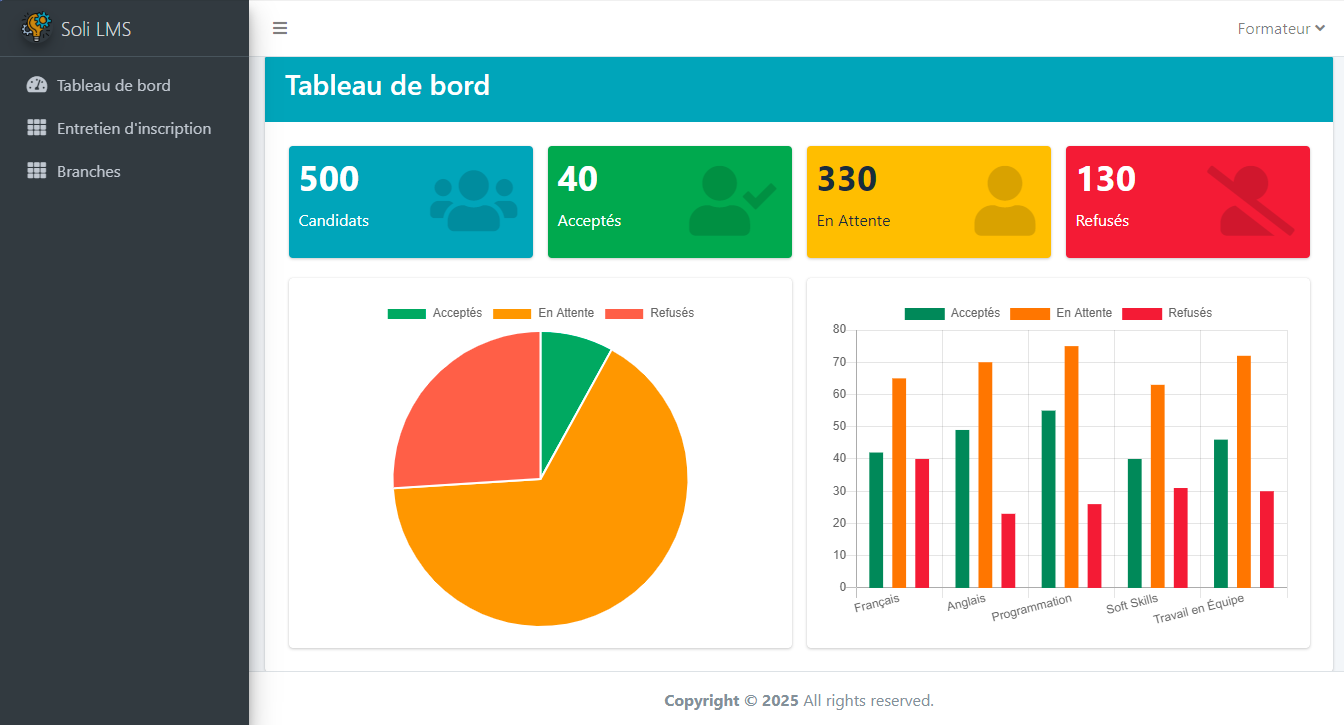
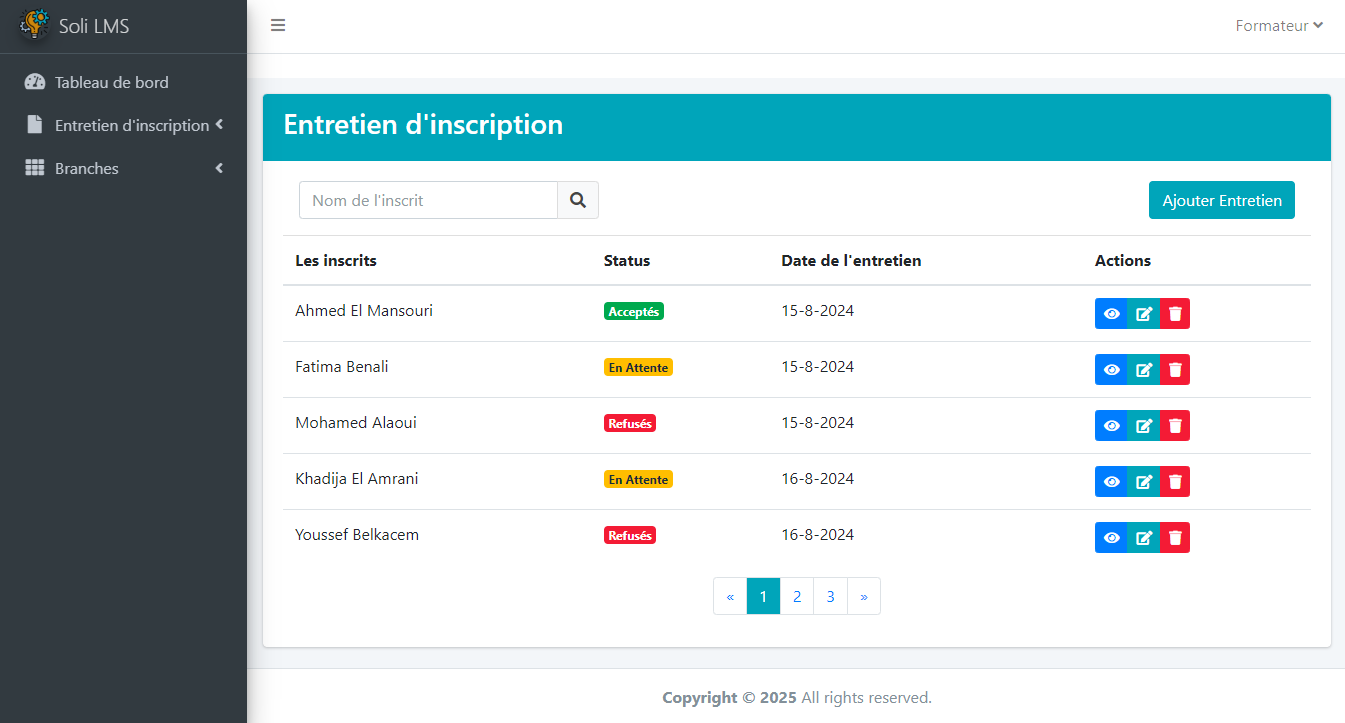
add empathy cards

diff --git a/Maquette/Entretie_inscription/create.php b/Maquette/Entretie_inscription/create.php
@@ -26,15 +26,18 @@ include_once '../layouts/head.php';
           <div class="card-body">
             <!-- Interview form -->
             <form>
-              <!-- Input field for first name -->
+              <!-- Select2 -->
               <div class="form-group">
-                <label for="FirstName">Nom</label>
-                <input type="text" class="form-control" id="FirstName" name="FirstName" placeholder="Nom">
-              </div>
-              <!-- Input field for last name -->
-              <div class="form-group">
-                <label for="LastName">Prénom</label>
-                <input type="text" class="form-control" id="LastName" name="LastName" placeholder="Prénom">
+                <label for="minimal-select">Nom de l'inscrit</label>
+                <select id="minimal-select" class="form-control select2" style="width: 100%;">
+                  <option selected="selected" disabled>Nom</option>
+                  <option>Ahmed El Mansouri</option>
+                  <option>Fatima Benali</option>
+                  <option>Mohamed Alaoui</option>
+                  <option>Khadija El Amrani</option>
+                  <option>Youssef Belkacem</option>
+                  <option>Suirita Fahd</option>
+                </select>
               </div>
 
               <!-- Accordion section for different interview categories -->
@@ -184,7 +187,7 @@ include_once '../layouts/head.php';
               <div class="row">
                 <div class="col-12">
                   <a href="../dashboard/dashboard.php" class="btn btn-secondary">Annuler</a>
-                  <a href="./index.php" class="btn btn-md btn-info float-right"></a>
+                  <a href="./index.php" class="btn btn-md btn-info float-right">Valider</a>
                 </div>
               </div>
             </form>
@@ -238,16 +241,23 @@ include_once '../layouts/head.php';
 
   <!-- Script for handling grade box selection -->
   <script>
+    $(document).ready(function() {
+      if ($.fn.select2) {
+        $('.select2').select2();
+      } else {
+        console.error("Select2 library not loaded.");
+      }
+    });
+
     document.addEventListener('DOMContentLoaded', () => {
       const gradeContainers = document.querySelectorAll('.grade-container');
 
       gradeContainers.forEach(container => {
         container.addEventListener('click', (e) => {
           if (e.target.classList.contains('grade-box')) {
-            container.querySelectorAll('.grade-box').forEach(box => {
-              box.classList.remove('selected');
-            });
-            e.target.classList.add('selected');
+            const isSelected = e.target.classList.contains('selected');
+            container.querySelectorAll('.grade-box').forEach(box => box.classList.remove('selected'));
+            if (!isSelected) e.target.classList.add('selected');
           }
         });
       });

diff --git a/Maquette/layouts/head.php b/Maquette/layouts/head.php
@@ -4,7 +4,9 @@
 
   <link rel="stylesheet" href="../node_modules/admin-lte/plugins/fontawesome-free/css/all.min.css">
   <link rel="stylesheet" href="../node_modules/admin-lte/plugins/bootstrap/css/bootstrap.min.css">
+  <link rel="stylesheet" href="../node_modules/admin-lte/plugins/select2/css/select2.min.css">
   <link rel="stylesheet" href="../node_modules/admin-lte/dist/css/adminlte.min.css">
+
   <link rel="stylesheet" href="../assets/css/style.css">
 
   <title>SOLI lms</title>

diff --git a/Maquette/layouts/script-link.php b/Maquette/layouts/script-link.php
@@ -3,3 +3,4 @@
 <script src="../node_modules/admin-lte/dist/js/adminlte.min.js"></script>
 <script src="../node_modules/admin-lte/plugins/chart.js/Chart.min.js"></script>
 <script src="../node_modules/chartjs-plugin-datalabels/dist/chartjs-plugin-datalabels.min.js"></script>
+<script src="../node_modules/admin-lte/plugins/select2/js/select2.full.min.js"></script>

diff --git a/docs/presentation/slides.md b/docs/presentation/slides.md
@@ -112,9 +112,21 @@
 
 |||
 
-#### **6.1. Carte d’empathie:**
+#### **6.1. Carte d’empathie de l’étudiant:**
 
-![Carte d’empathie](../assets/img/Carte_empathie.svg)
+![Carte d’empathie de l’étudiant](../assets/img/Carte_empathie_Étudiant.svg)
+
+|||
+
+#### **6.1. Carte d’empathie de formateur:**
+
+![Carte d’empathie de formateur](../assets/img/Carte_empathie_Formateur.svg)
+
+|||
+
+#### **6.1. Card d’empathie de responsable de formation:**
+
+![Carte d’empathie de responsable de formation](../assets/img/Carte_empathie_Responsable_de_formation.svg)
 
 |||
 
